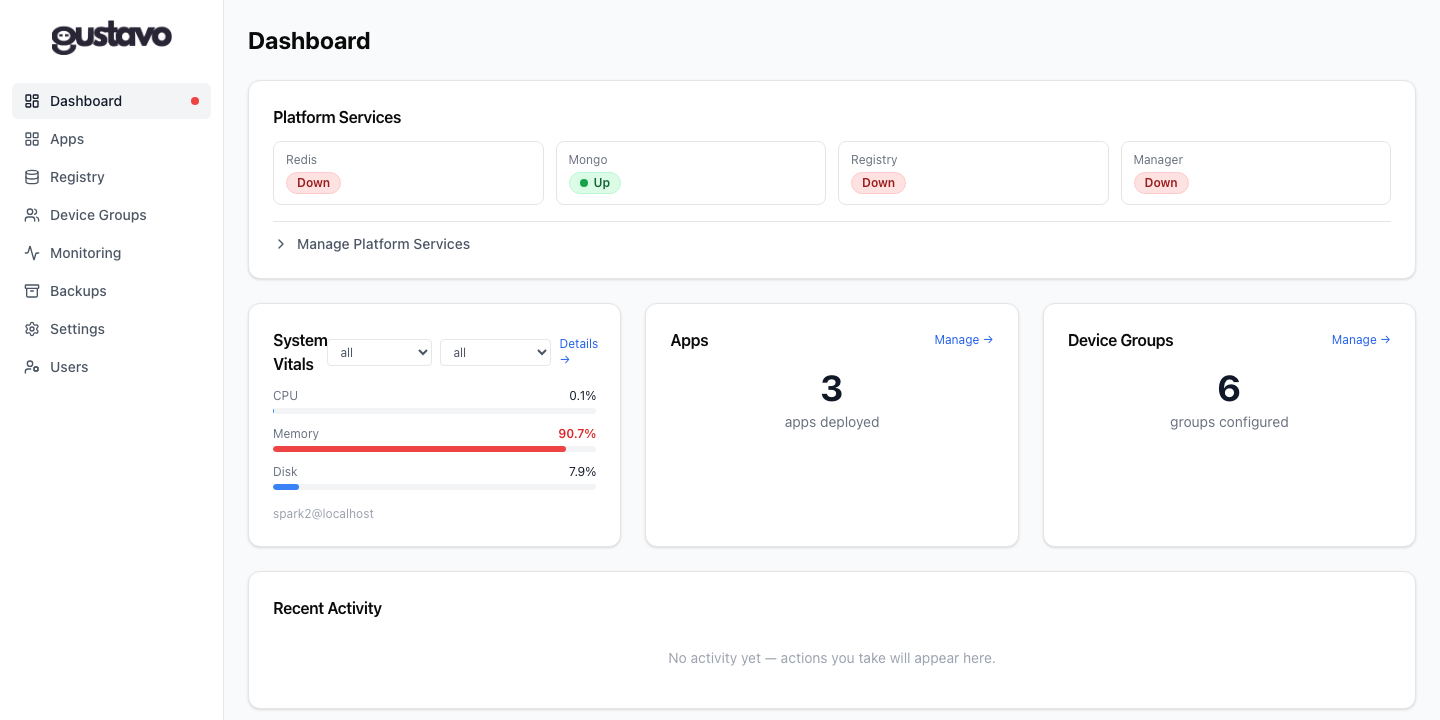
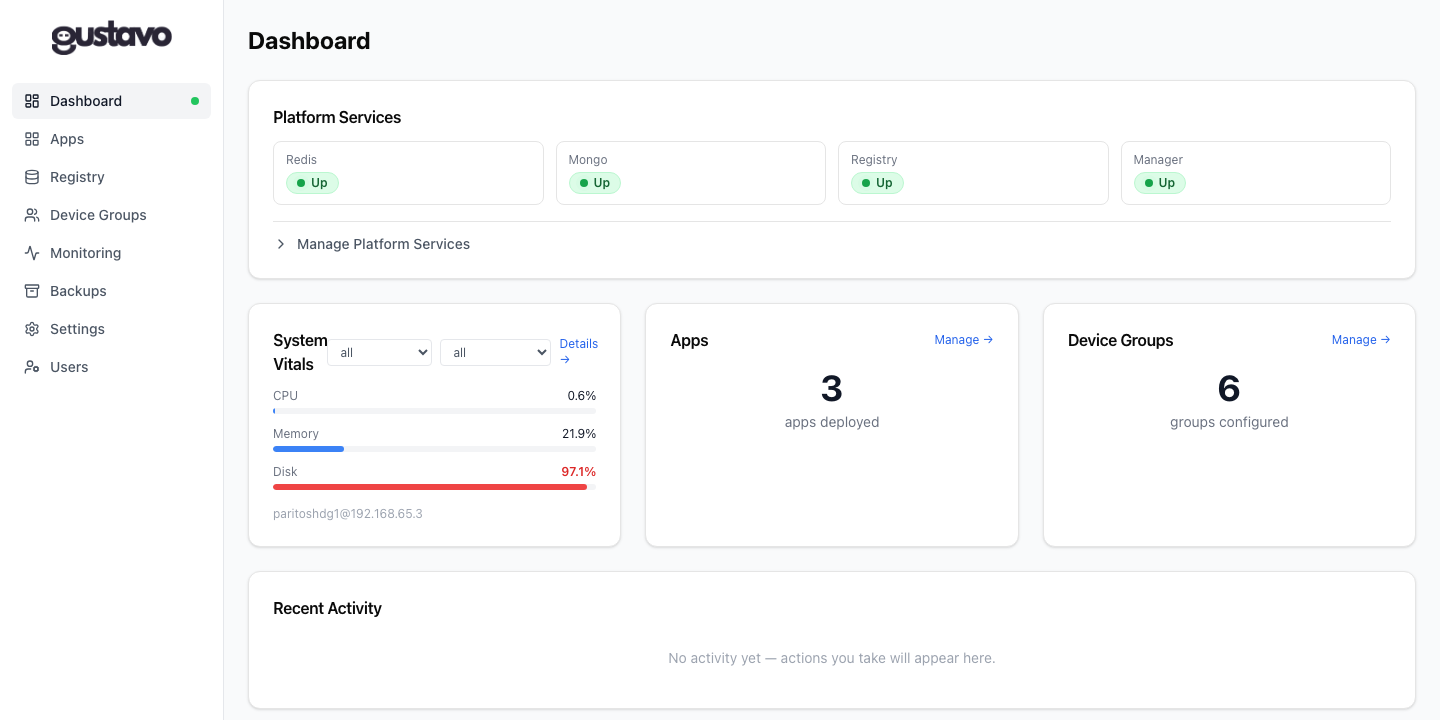
Use the real cypress-man deployment for the Dashboard screenshot
The previous screenshot was taken against a local instance where only
Mongo resolved as Up (Redis/Registry/Manager run as containers on a
different host than that gustavo container), which read as broken in
the docs. Retook it against the actual cypress-man.atrc.okstate.edu
deployment, where all four services correctly show Up. Updated the
layout caption to drop the now-stale "only Mongo shows Up" note - the
explanation of what the pills actually check still lives in the
Platform Services card section below.

Verified: mkdocs build --strict passes with the new image.

diff --git a/docs/ui/dashboard.md b/docs/ui/dashboard.md
@@ -10,11 +10,8 @@ The Dashboard is the landing page after login. It provides an at-a-glance view o
 
 Top to bottom: the Platform Services card (status pills + expandable
 management table), a 3-column row (System Vitals, Apps, Device
-Groups), and Recent Activity. In this screenshot only Mongo shows
-`Up` — Redis/Registry/Manager status is a local Docker container-name
-lookup on the machine `gustavo` itself runs on (see the Platform
-Services card section below), so it doesn't reflect those services
-being reachable elsewhere.
+Groups), and Recent Activity. See the Platform Services card section
+below for what the `Up`/`Down` pills actually check.
 
 ---
 
